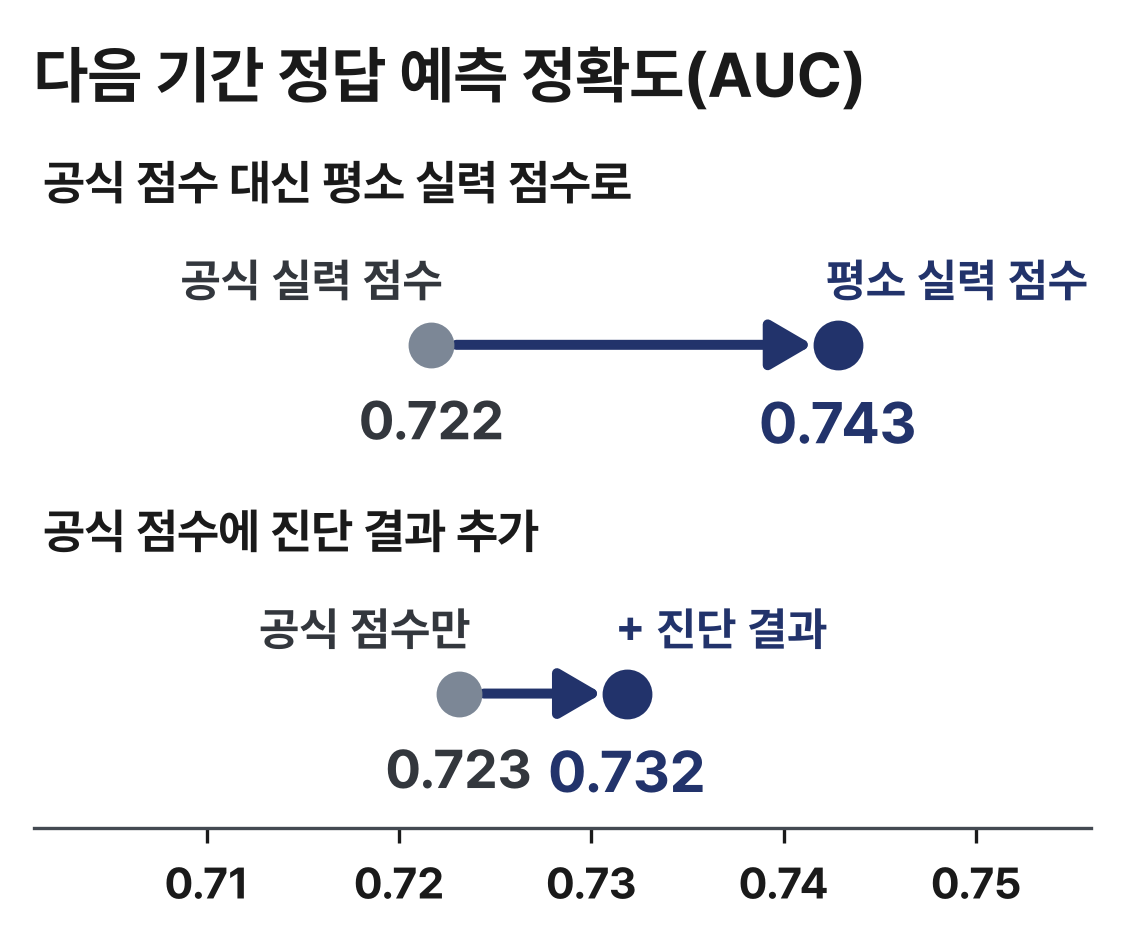
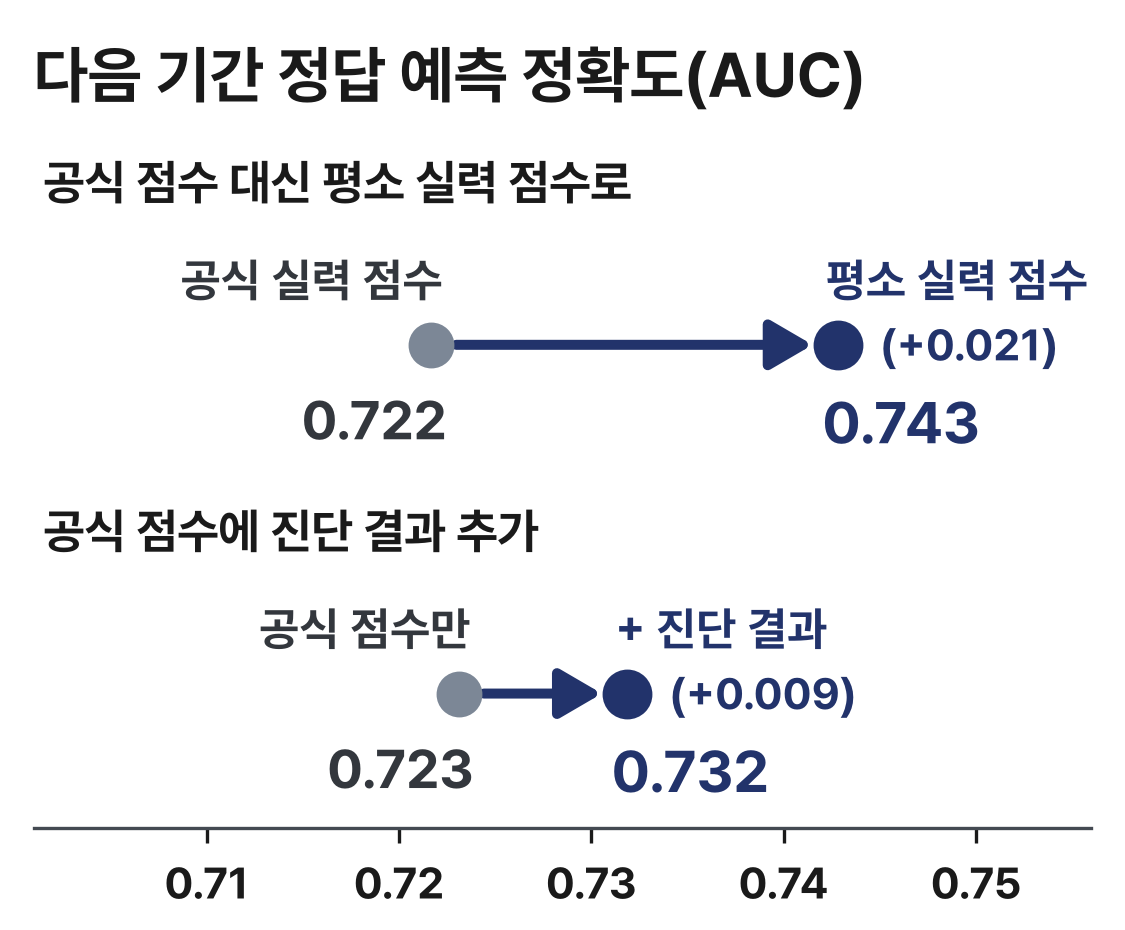
AUC 그래프: 숫자를 점 양옆으로 벌리고 오른 폭(+0.021, +0.009) 표시

diff --git a/make_figures.py b/make_figures.py
@@ -94,8 +94,9 @@ for i, (ttl, l0, a0, l1, a1) in enumerate(rows):
     ax.scatter([a0], [y], s=100, color=MID, zorder=3); ax.scatter([a1], [y], s=120, color=NAVY, zorder=3)
     ax.text(a0 + 0.0006, y + 0.14, l0, ha="right", va="bottom", fontsize=11, color=SUB)          # 이름: 시작 점은 왼쪽으로, 끝 점은 오른쪽으로 뻗게
     ax.text(a1 - 0.0006, y + 0.14, l1, ha="left", va="bottom", fontsize=11, color=NAVY)
-    ax.text(a0, y - 0.16, f"{a0:.3f}", ha="center", va="top", fontsize=13, color=SUB)
-    ax.text(a1, y - 0.16, f"{a1:.3f}", ha="center", va="top", fontsize=14, color=NAVY)
+    ax.text(a0 + 0.0008, y - 0.16, f"{a0:.3f}", ha="right", va="top", fontsize=13, color=SUB)      # 시작 숫자는 점의 왼쪽 아래
+    ax.text(a1 - 0.0008, y - 0.16, f"{a1:.3f}", ha="left", va="top", fontsize=14, color=NAVY)      # 끝 숫자는 점의 오른쪽 아래
+    ax.text(a1 + 0.0022, y, f"(+{a1 - a0:.3f})", ha="left", va="center", fontsize=10.5, color=NAVY)   # 오른 폭 (끝 점 바로 오른쪽)
     ax.text(0.7015, y + 0.50, ttl, fontsize=11.5, va="bottom")
 ax.set_xlim(0.701, 0.756); ax.set_ylim(-0.50, 2.10); ax.set_yticks([])
 ax.set_xticks([0.71, 0.72, 0.73, 0.74, 0.75]); ax.tick_params(axis="x", labelsize=10.5)

diff --git a/README.md b/README.md
@@ -27,7 +27,7 @@ algofit_figures/
 | fig1 | 정답률 구간별 학습자 수(왼쪽)와, 그중 정답률 95% 이상인 학습자를 펼쳐 본 공식 실력 점수 분포(오른쪽). 95% 이상 막대와 오른쪽 그래프를 같은 주황색과 화살표로 연결함 | 왼쪽 막대 합 8,502명, 오른쪽 막대 합 4,081명, 정답률 90% 이상 79.3%, 점수 범위 360~3,803점 |
 | fig2 | 공식 실력 점수와 비교한 전체 판정 (합이 전체 인원이라 도넛으로 표시) | 실력 부족 1,134 / 점수만큼 5,213 / 점수 이상 2,155 (합 8,502명) |
 | fig3 | 고른 약한 분야가 다음 기간에도 약했던 비율 | 우리 진단 42.8%, 정답률 낮은 순 43.0%, 무작위 35.1% |
-| fig4 | 다음 기간 정답 예측 정확도(AUC). '이전 → 이후'를 점과 화살표로 표시함 (가로축 0.701~0.756) | 공식 실력 점수 0.722, 평소 실력 점수 0.743, 공식 점수만 0.723, 진단 추가 0.732 |
+| fig4 | 다음 기간 정답 예측 정확도(AUC). '이전 → 이후'를 점과 화살표로 표시하고 오른 폭(+0.021, +0.009)을 함께 적음 (가로축 0.701~0.756) | 공식 실력 점수 0.722, 평소 실력 점수 0.743, 공식 점수만 0.723, 진단 추가 0.732 |
 | fig5 | 풀이 습관 지표 9개를 '유형이 가장 잘 나뉘는 2개 축'(선형 판별 분석, LDA)으로 요약해 그림. 옅은 점 = 학습자(1,200명 무작위 표시), 타원 = 유형별 학습자가 모인 범위(표준편차 1배), 큰 도형 = 유형 중심. 유형마다 색과 도형이 다름(● 남색 ▲ 보라 ■ 청록 ◆ 주황). 그리기 전에 모든 학습자가 가장 가까운 K-means 중심의 유형과 같은지 확인함(assert) | 로직 점검형 3,788 / 도전적 시행착오형 2,402 / 효율 개선 필요형 1,606 / 문법 실수·빠른 재제출형 706명 |
 
 그래프 크기(인치)를 슬라이드에 넣는 크기와 같게 정했습니다. 그래서 코드에 적은 글자 크기(pt)가 슬라이드에서도 그대로 보입니다.
